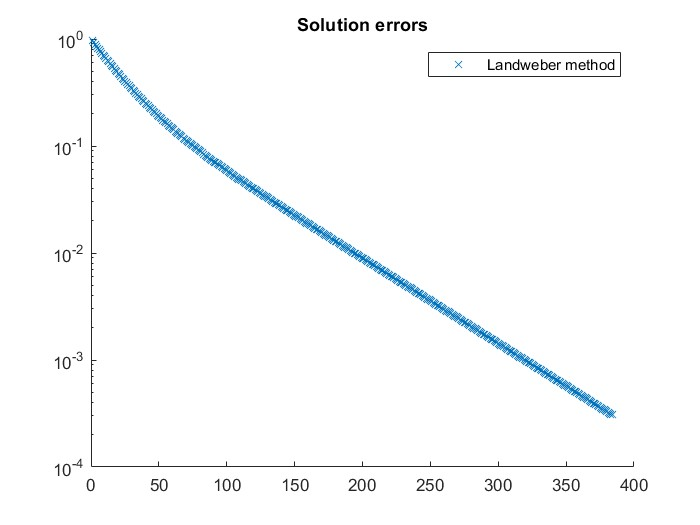
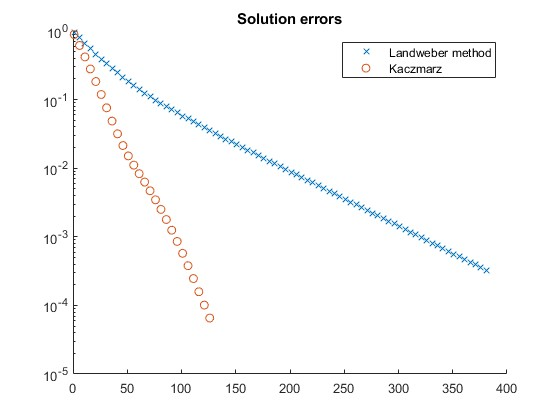
rest of L5

diff --git a/numerical_methods_optimization/L5_4.m b/numerical_methods_optimization/L5_4.m
@@ -7,28 +7,34 @@ b = [1 1 1 1]';
 
 [x_jacobi, res_j, sol_j] = jacobi(A, b, 10e6);
 [x_gauss_seidel, res_gs, sol_gs] = gauss_seidel(A, b, 10e6);
-[x_landweber, res_l, sol_l] = landweber(A, b, 10e6, 0.01);
-[x_sor, res_s, sol_s] = successive_over_relaxation(A, b, 10e6,0.0000000000001);
+[x_landweber, res_l, sol_l] = landweber(A, b, 10e6, 0.04);
+[x_sor, res_s, sol_s] = successive_over_relaxation(A, b, 10e6, 1);
+[x_kacz, res_kacz, sol_kacz] = kaczmarz(A, b, 10e6, 1);
+
+scale =2;
 
 figure(1);
 hold on;
-plot(sol_j, '.');
-plot(sol_gs, '*');
-plot(sol_l , 'x');
-plot(sol_s, 'v');
+plot(sol_j, '.', 'MarkerIndices', [1:scale:length(sol_j)]);
+plot(sol_gs, '*', 'MarkerIndices', [1:scale:length(sol_gs)]);
+plot(sol_l , 'x', 'MarkerIndices', [1:5*scale:length(sol_l)]);
+plot(sol_s, 'v', 'MarkerIndices', [1:scale:length(sol_s)]);
+plot(sol_kacz, 'o' , 'MarkerIndices', [1:scale:length(sol_kacz)]);
 title('Solution errors')
-legend('Landweber method')
+legend( 'Landweber method', 'Kaczmarz')
 set(gca, 'YScale', 'log')
 hold off;
 
 figure(2);
 hold on;
-plot(res_j, '.');
-plot(res_gs, '*');
-plot(res_l, 'x');
-plot(res_s, 'v');
+plot(res_j, '.', 'MarkerIndices', [1:scale:length(res_s)]);
+plot(res_gs, '*', 'MarkerIndices', [1:scale:length(res_gs)]);
+plot(res_l, 'x', 'MarkerIndices', [1:5*scale:length(res_l)]);
+plot(res_s, 'v', 'MarkerIndices', [1:scale:length(res_s)]);
+plot(res_kacz, 'o', 'MarkerIndices', [1:scale:length(res_kacz)] );
 title('Residual errors')
-legend('Landweber method')
+legend('Landweber method', 'Kaczmarz')
 set(gca, 'YScale', 'log')
 
 hold off;
+

diff --git a/numerical_methods_optimization/L5_2.m b/numerical_methods_optimization/L5_2.m
@@ -10,27 +10,31 @@ b = [1;2;1];
 [x_gauss_seidel, res_gs, sol_gs] = gauss_seidel(A, b, 10e6);
 [x_landweber, res_l, sol_l] = landweber(A, b, 10e6, 0.11);
 [x_sor, res_s, sol_s] = successive_over_relaxation(A, b, 10e6, 1);
+[x_kacz, res_kacz, sol_kacz] = kaczmarz(A, b, 10e6, 1);
 
+scale =5;
 
 figure(1);
 hold on;
-plot(sol_j, '.');
-plot(sol_gs, '*');
-plot(sol_l , 'x');
-plot(sol_s, 'v');
+plot(sol_j, '.', 'MarkerIndices', [1:scale:length(sol_j)]);
+plot(sol_gs, '*', 'MarkerIndices', [1:scale:length(sol_gs)]);
+plot(sol_l , 'x', 'MarkerIndices', [1:scale:length(sol_l)]);
+plot(sol_s, 'v', 'MarkerIndices', [1:scale:length(sol_s)]);
+plot(sol_kacz, 'o' , 'MarkerIndices', [1:scale:length(sol_kacz)]);
 title('Solution errors')
-legend( 'Landweber method')
+legend( 'Landweber method', 'Kaczmarz')
 set(gca, 'YScale', 'log')
 hold off;
 
 figure(2);
 hold on;
-plot(res_j, '.');
-plot(res_gs, '*');
-plot(res_l, 'x');
-plot(res_s, 'v');
+plot(res_j, '.', 'MarkerIndices', [1:scale:length(res_s)]);
+plot(res_gs, '*', 'MarkerIndices', [1:scale:length(res_gs)]);
+plot(res_l, 'x', 'MarkerIndices', [1:scale:length(res_l)]);
+plot(res_s, 'v', 'MarkerIndices', [1:scale:length(res_s)]);
+plot(res_kacz, 'o', 'MarkerIndices', [1:scale:length(res_kacz)] );
 title('Residual errors')
-legend('Landweber method')
+legend('Landweber method', 'Kaczmarz')
 set(gca, 'YScale', 'log')
 
 hold off;

diff --git a/numerical_methods_optimization/L5_1.m b/numerical_methods_optimization/L5_1.m
@@ -11,6 +11,7 @@ b = [0 0 0 5]';
 [x_gauss_seidel, res_gs, sol_gs] = gauss_seidel(A, b, 10e6);
 [x_landweber, res_l, sol_l] = landweber(A, b, 10e6, 0.15);
 [x_sor, res_s, sol_s] = successive_over_relaxation(A, b, 10e6, 0.5);
+[x_kacz, res_kacz, sol_kacz] = kaczmarz(A, b, 10e6, 1.9);
 
 figure(1);
 hold on;
@@ -18,8 +19,9 @@ plot(sol_j, '.');
 plot(sol_gs, '*');
 plot(sol_l , 'x');
 plot(sol_s, 'v');
+plot(sol_kacz, 'o' );
 title('Solution errors')
-legend('Jacobi method', 'Gauss-Seidel method', 'Landweber method', 'Successive over-relaxation method')
+legend('Jacobi method', 'Gauss-Seidel method', 'Landweber method', 'Successive over-relaxation method','Kaczmarz')
 set(gca, 'YScale', 'log')
 hold off;
 
@@ -29,8 +31,9 @@ plot(res_j, '.');
 plot(res_gs, '*');
 plot(res_l, 'x');
 plot(res_s, 'v');
+plot(res_kacz, 'o' );
 title('Residual errors')
-legend('Jacobi method', 'Gauss-Seidel method', 'Landweber method', 'Successive over-relaxation method')
+legend('Jacobi method', 'Gauss-Seidel method', 'Landweber method', 'Successive over-relaxation method','Kaczmarz' )
 set(gca, 'YScale', 'log')
 
 hold off;

diff --git a/numerical_methods_optimization/kaczmarz.m b/numerical_methods_optimization/kaczmarz.m
@@ -1,0 +1,29 @@
+function [x, residual_error, solution_error] = kaczmarz(A, b, max_iterations, alpha)
+    [~, n] = size(A);
+    x = zeros(n, 1);
+    
+    exact = gaussian_elimination(A, b);
+    residual_error = [];
+    solution_error = [];
+
+    threshold = 10e-6;
+
+    iterations = 0;
+
+    G = inv(A);
+    while (iterations < max_iterations)
+        x_prev = x;
+        iterations = iterations + 1;
+
+        for i = 1:n
+            x = x + alpha * ((b(i) - dot(x, A(i, :))) / (norm(A(i, :)) ^ 2)) * A(i, :)';
+        end
+
+        solution_error = [solution_error, norm(x - exact)/norm(exact)];
+        residual_error = [residual_error, norm(A * x - b)/n];
+
+        if (norm(x_prev - x) < threshold)
+               break; 
+        end
+    end
+end
